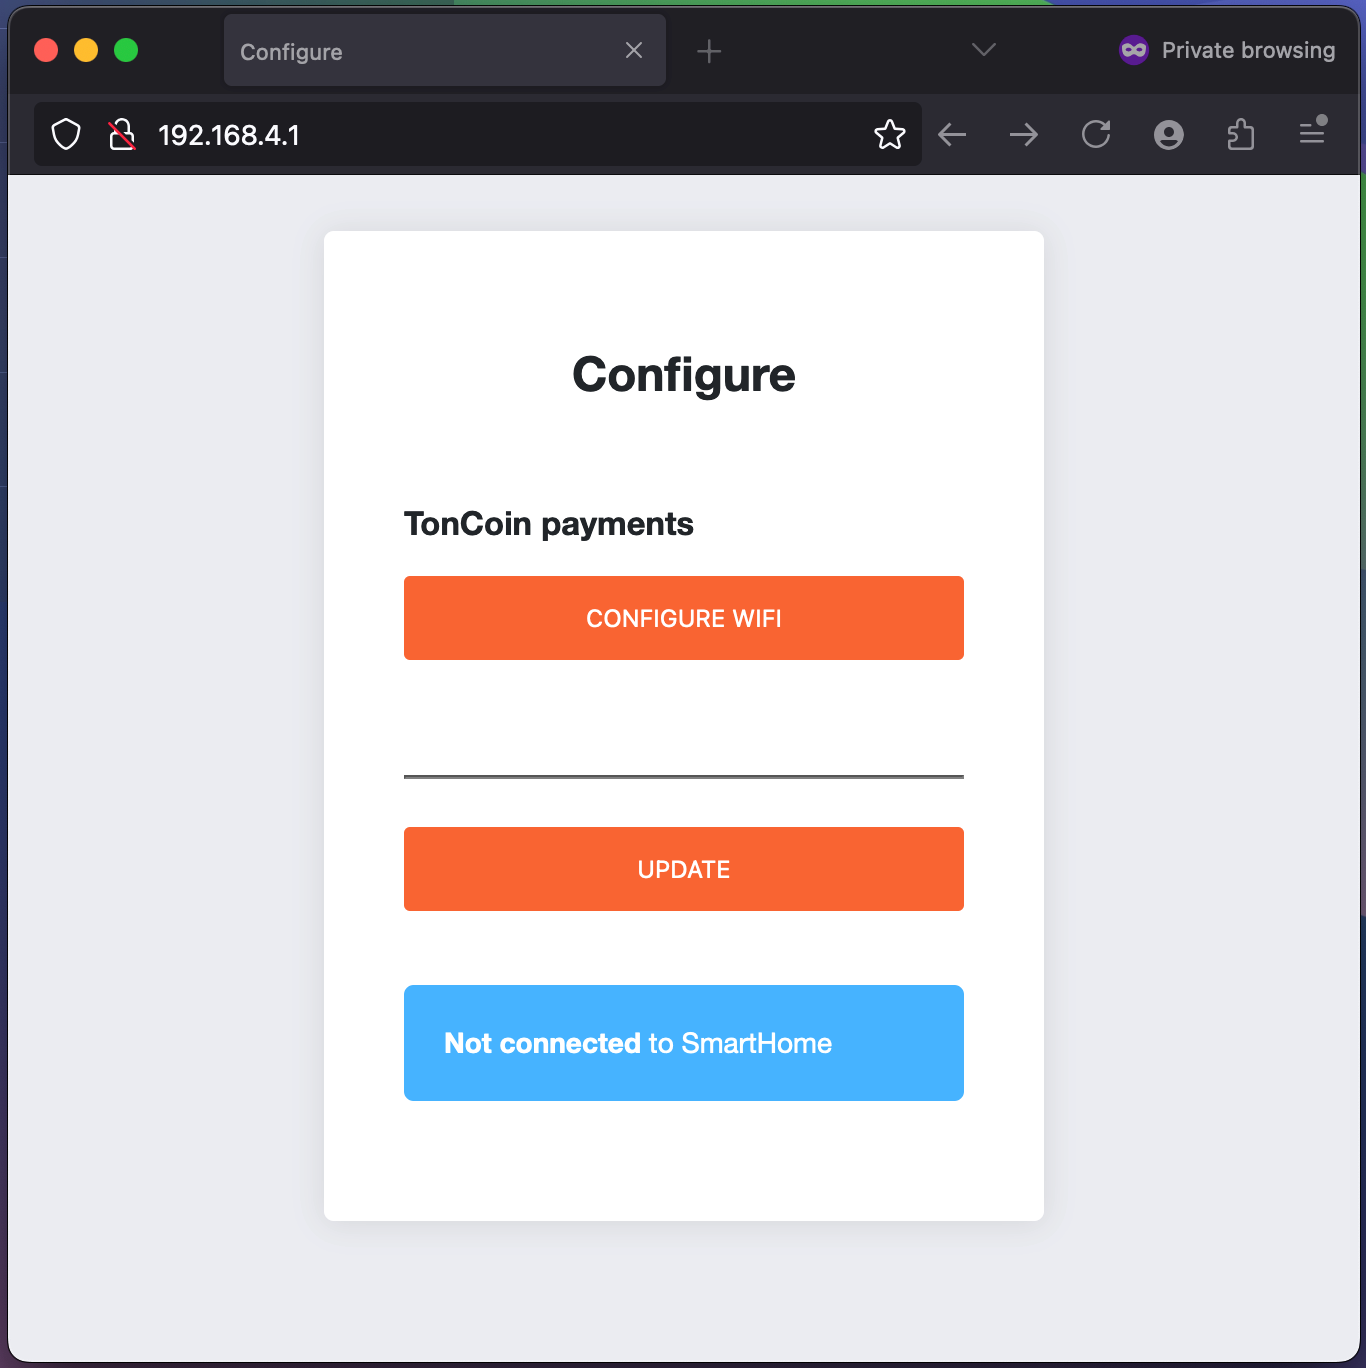
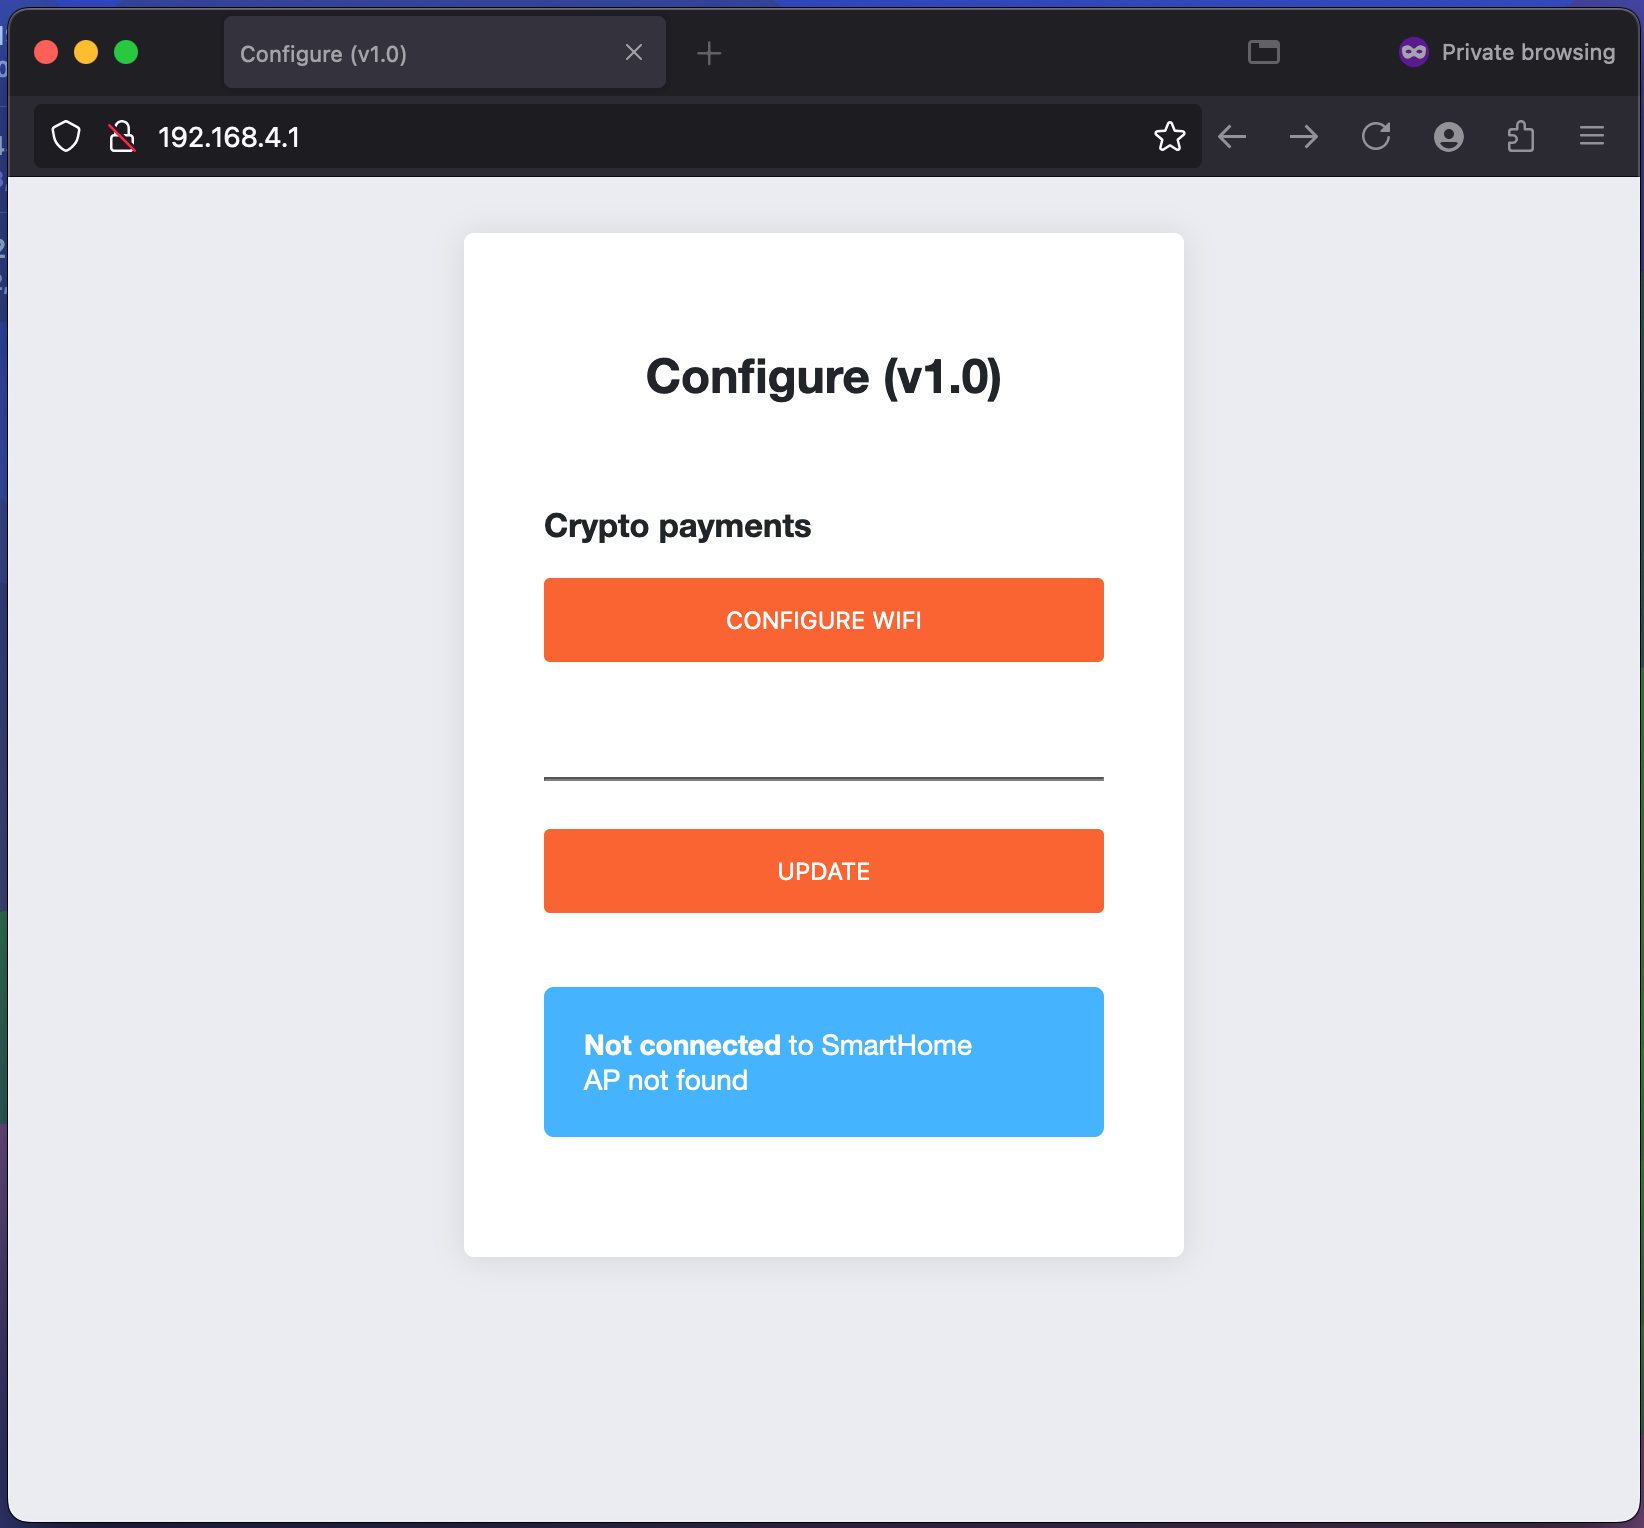
New Readme

diff --git a/README_RU.md b/README_RU.md
@@ -20,7 +20,7 @@
      <img src="https://github.com/renat2985/crypto_payment_touchScreen/blob/main/doc/WiFi.png" width="200px">
    - Подключитесь к этой точке (пароль не требуется) и откройте браузер, где введите http://192.168.4.1. Обычно после подключения к Wi-Fi автоматически откроется Activ portal, который перенаправит вас на нужную страницу.
      
-     <img src="https://github.com/renat2985/crypto_payment_touchScreen/blob/main/doc/AP1.png" width="300px">
+     <img src="https://github.com/renat2985/crypto_payment_touchScreen/blob/main/doc/AP2.png" width="300px">
    - Нажмите "Configure WiFi" для настройки.
 
 2. **Настройка устройства:**
@@ -30,11 +30,15 @@
    - **Your Solana Wallet:** Введите адрес вашего кошелька для приема платежей.
    - **CoinMarketCap API:** Используется для получения текущего курса Solana, TonCoin в фиатной валюте.
    - **NowNodesAPI API:** Служит для получения информации о балансе вашего кошелька.
+
    Для тестирования можно использовать встроенные API, однако для долгосрочного использования настоятельно рекомендуется зарегистрироваться на соответствующих сайтах ([coinmarketcap.com](https://coinmarketcap.com/api/) и [nownodes.io](https://nownodes.io/)) и получить собственные ключи API. Бесплатные тарифы позволяют выполнять до 10 000 запросов в месяц, чего достаточно для 10 устройств. Однако при увеличении количества устройств возможны перебои с получением актуальной информации, что может привести к сбоям в процессе оплаты.
+
    - **Сurrency:** Выберите валюту, в которой хотите получать оплату (EUR, USD, RUB, BYN, BGN, GBP и др.). Это необходимо для автоматической конвертации суммы в Solana, TonCoin на основе текущего курса, который обновляется каждый час через coinmarketcap.com.
    - **Service Currency Price:** Укажите цену в выбранной валюте, которую клиент должен оплатить.
    - **Payment Tolerance:** В этой ячейке указывается допустимая погрешность в цене. Поскольку стоимость Ton постоянно колеблется, здесь нужно указать диапазон отклонений (одной цифрой), который вы готовы принять при оплате.
    - **Relay Work Time:** Укажите, на сколько секунд должно включиться реле. Это может быть от одной секунды (например, для имитации нажатия кнопки) до нескольких минут или часов.
+
+   <img src="https://github.com/renat2985/crypto_payment_touchScreen/blob/main/doc/APFull2.png" width="300px">
 
 
 ### Инструкции для самостоятельной сборки:

diff --git a/README.md b/README.md
@@ -18,7 +18,7 @@ If you want to see a new cryptocurrency that you need here, feel free to contact
      <img src="https://github.com/renat2985/crypto_payment_touchScreen/blob/main/doc/WiFi.png" width="200px">
    - Connect to this hotspot (no password required) and open a browser, then enter http://192.168.4.1. After connecting to Wi-Fi, the Captive Portal will usually open automatically, redirecting you to the required page.
      
-     <img src="https://github.com/renat2985/crypto_payment_touchScreen/blob/main/doc/AP1.png" width="300px">
+     <img src="https://github.com/renat2985/crypto_payment_touchScreen/blob/main/doc/AP2.png" width="300px">
    - Click "Configure WiFi" to set it up.
 
 2. **Device Configuration:**
@@ -28,11 +28,16 @@ If you want to see a new cryptocurrency that you need here, feel free to contact
    - **Your Solana Wallet:** Enter your wallet address to receive payments.
    - **CoinMarketCap API:** Used to get the current exchange rate of Solana and TonCoin in fiat currency.
    - **NowNodesAPI API:** Used to get information about your wallet balance.
+
    You can use built-in APIs for testing; however, for long-term use, it is highly recommended to register on the respective websites ([coinmarketcap.com](https://coinmarketcap.com/api/) and [nownodes.io](https://nownodes.io/)) and obtain your own API keys. Free plans allow up to 10,000 requests per month, enough for 10 devices. However, with an increased number of devices, there may be delays in getting up-to-date information, which could disrupt the payment process.
+
    - **Currency:** Choose the currency in which you want to receive payments (EUR, USD, RUB, BYN, BGN, GBP, etc.). This is necessary for automatic conversion of the amount into Solana or TonCoin based on the current exchange rate, which is updated hourly via coinmarketcap.com.
    - **Service Currency Price:** Set the price in the selected currency that the client must pay.
    - **Payment Tolerance:** Enter the allowable price deviation here. Since the value of Ton fluctuates constantly, you need to specify a tolerance range (as a single number) that you are willing to accept for payment.
    - **Relay Work Time:** Specify how many seconds the relay should remain active. This can range from one second (for simulating a button press, for example) to several minutes or hours.
+
+   <img src="https://github.com/renat2985/crypto_payment_touchScreen/blob/main/doc/APFull2.png" width="300px">
+
 
 
 ### Instructions for DIY Assembly:
